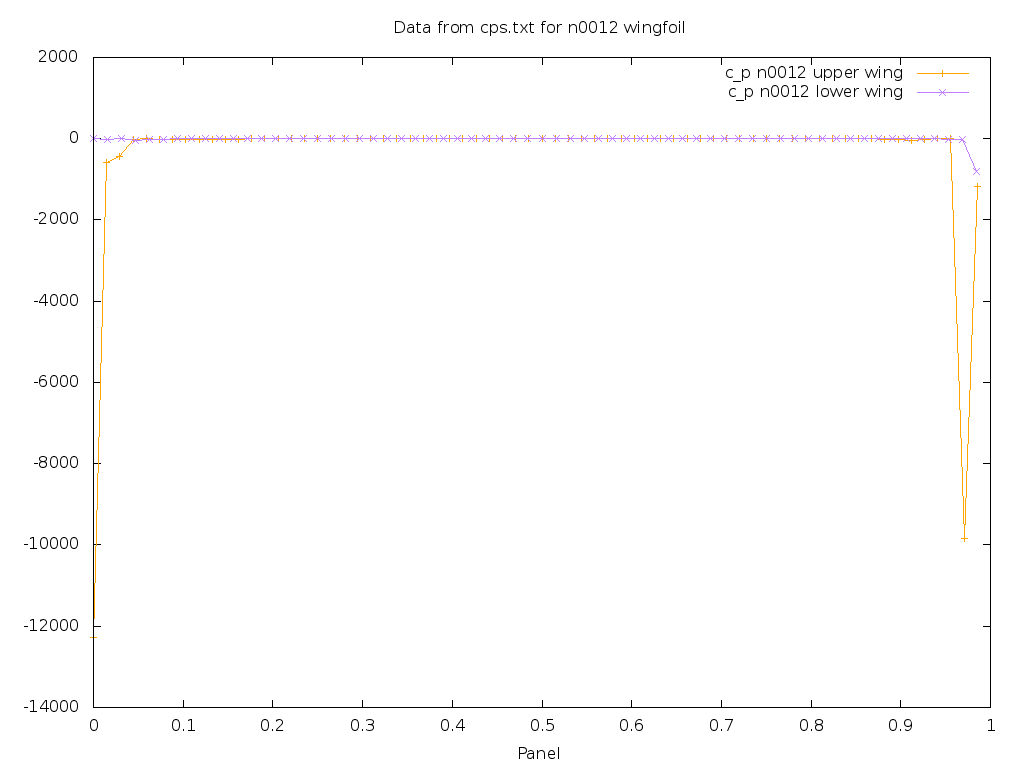
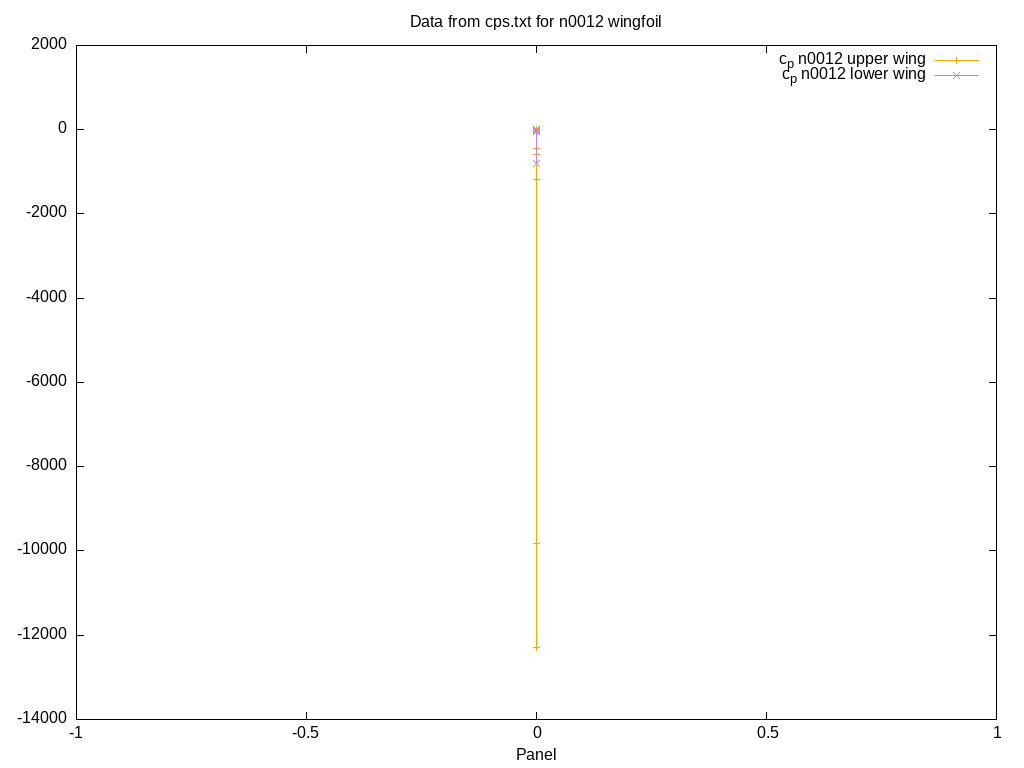
implemented plot in matlab

diff --git a/plotCps.m b/plotCps.m
@@ -1,0 +1,51 @@
+function plotCps(name)
+    % Validierung und Formatierung des Eingabe-Arguments
+    if nargin < 1 || ~ischar(name) && ~isstring(name)
+        error('Bitte geben Sie einen Namen als String-Argument an.');
+    end
+    name = char(name);
+    if ~isempty(name)
+        name(1) = upper(name(1));
+    else
+        error('Name darf nicht leer sein.');
+    end
+    outputFileName = ['cps' name '.png'];
+
+    % Daten einlesen
+    cps1 = load('cps1.txt');
+    cps2 = load('cps2.txt');
+    n1 = length(cps1);
+    n2 = length(cps2);
+    x1 = (0:n1-1)' / n1;
+    x2 = (0:n2-1)' / n2;
+
+    % Figur erstellen
+    f = figure('Visible','off');
+    hold on;
+    plot(x1, cps1, 'o-', 'Color', [1,0.5,0], 'DisplayName', ['c_p ' name ' upper wing']);
+    plot(x2, cps2, 'x-', 'Color', [0.5,0,0.5], 'DisplayName', ['c_p ' name ' lower wing']);
+    hold off;
+    xlabel('Panel');
+    ylabel('c_p');
+    title(['Data from cps.txt for ' name ' wingfoil']);
+	legend('Location','northoutside','Orientation','horizontal');
+    grid on;
+
+    % Bildauflösung einstellen: 1024 x 768 Pixel bei 150 dpi
+    dpi = 150;
+    width_pix = 1024;
+    height_pix = 768;
+    width_in = width_pix / dpi;   % in inches
+    height_in = height_pix / dpi; % in inches
+
+    set(f, 'PaperUnits', 'inches');
+    set(f, 'PaperPosition', [0 0 width_in height_in]);
+    set(f, 'PaperSize', [width_in height_in]);
+
+    % Bild als PNG speichern mit 150 dpi (entspricht 1024x768 Pixel)
+    print(f, outputFileName, '-dpng', ['-r' num2str(dpi)]);
+
+    fprintf('Plot gespeichert unter: %s\n', outputFileName);
+    close(f);  % Figur schließen, um Ressourcen frei zu geben
+end
+
